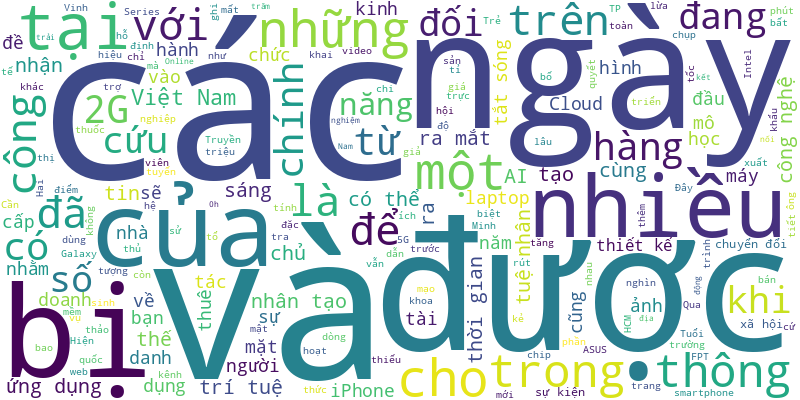
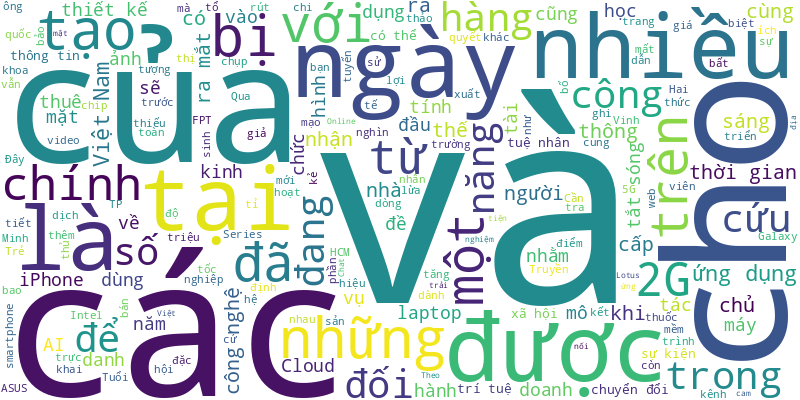
🍀 = 90%

diff --git a/README.md b/README.md
@@ -1,6 +1,14 @@
 # Tuoi Tre RSS 
 
 ## Giáo dục 
+- Giáo viên nhận xét ra sao về đề tham khảo thi tốt nghiệp THPT từ năm 2025?
+- Theo đề xuất của Bộ Giáo dục và Đào tạo, sinh viên hệ vừa học vừa làm, hệ đào tạo từ xa sẽ được cấp học bổng như sinh viên chính quy.
+- Bộ Giáo dục và Đào tạo vừa công bố đề thi tham khảo kỳ thi tốt nghiệp THPT năm 2025 của 10 môn văn hóa và 7 môn ngoại ngữ.
+- Nhận được bức thư của nữ sinh lớp 7 ở Hà Tĩnh xin hỗ trợ cho bạn học cùng lớp, ông Hoàng Trọng Thủy vô cùng xúc động nên đã đăng tải lên mạng xã hội. Ngay sau đó có một số người liên hệ với ông Thủy đề nghị giúp đỡ.
+- Trường tiểu học Tân Sơn Nhì (quận Tân Phú, TP.HCM) mời phụ huynh tham gia tiết học mở, bữa ăn bán trú cùng học sinh.
+- Tháng 10 hằng năm, sau khi những người đoạt giải Nobel được công bố, thế giới lại được chiêm ngưỡng những bức chân dung mang tính biểu tượng.
+- Các trường đại học đang lúng túng trong việc công bố chi tiết cách xét tuyển theo điểm thi tốt nghiệp THPT 2025.
+- Bộ Giáo dục và Đào tạo cho biết sẽ tổ chức tổng kết, rút kinh nghiệm quá trình xã hội hóa việc biên soạn, phát hành, in ấn và hiệu quả sử dụng sách giáo khoa.
 - Bước vào cuối cấp, thông qua những chuyến đi thực tế học sinh dễ hình dung, nhóm lên dự định về công việc mong muốn để sớm phát triển bản thân.
 - Những quốc gia như Lào, Myanmar đang có nhiều dự án lớn tầm quốc gia ứng dụng trí tuệ nhân tạo (AI) trong giáo dục.
 - Phụ huynh có thể tra cứu thời hạn sử dụng thẻ bảo hiểm y tế bằng nhiều cách, hoặc đăng ký tài khoản VssID cho con qua tài khoản của cha mẹ để tra cứu.
@@ -23,48 +31,41 @@
 - Võ Quang Phú Đức - quán quân Đường lên đỉnh Olympia 2024 - đã có những trải lòng sau khi giành được vòng nguyệt quế và chuyện bấm chuông ở câu trả lời cuối cùng đang ồn ào trên mạng xã hội.
 - Bộ trưởng Bộ Giáo dục và Đào tạo Nguyễn Kim Sơn đã trả lời kiến nghị cử tri tỉnh An Giang gửi kỳ họp thứ 7, Quốc hội khóa XV liên quan sách giáo khoa, học phí.
 - Dự thảo Luật Nhà giáo mới nhất đã bỏ nội dung quy định về chứng chỉ hành nghề nhà giáo nhưng quan điểm của ban soạn thảo việc này sẽ vẫn tiến hành nghiên cứu, thí điểm.
-- Tiến sĩ Randall Martin - giám đốc điều hành, Hội đồng giáo dục quốc tế British Columbia (Canada) - cho biết đang ghi nhận một sự chuyển biến đáng kể trong việc lựa chọn ngành học của các sinh viên Việt Nam đến Canada.
-- Trường đại học Thủ Dầu Một đã nộp lại ngân sách 37 tỉ đồng thu sai học phí mà không hoàn trả sinh viên.
-- Theo Bộ Giáo dục và Đào tạo, việc tổ chức kỳ thi tốt nghiệp THPT để xét công nhận tốt nghiệp THPT đã được quy định trong Luật Giáo dục.
-- Huỳnh Ngọc Hiếu (19 tuổi) vừa giành học bổng toàn phần của Trường ĐH RMIT. Đáng nể hơn, Hiếu cũng đang là sinh viên của ĐH Kinh tế TP.HCM và sẽ học hai trường cùng lúc.
-- Thống kê từ IELTS cho thấy điểm thi phổ biến nhất của thí sinh Việt Nam là 6.0, trong khi đó chỉ 1% thí sinh đạt trên điểm 8.5.
-- Tính đến tháng 9-2024, cả nước có 1.886 cơ sở giáo dục nghề nghiệp, bao gồm 399 trường cao đẳng, 429 trường trung cấp và 1.058 trung tâm giáo dục nghề nghiệp.
-- GS.TS Nguyễn Hữu Tú, hiệu trưởng Trường đại học Y Hà Nội, vừa được Chính phủ Pháp trao tặng huân chương Cành cọ hàn lâm vì những đóng góp trong sự phát triển hợp tác y khoa giữa hai nước.
-- Công an tỉnh Nam Định đang phối hợp cùng các đơn vị liên quan điều tra nguyên nhân bé gái 2 tuổi tử vong tại Trường mầm non xã Nam Điền, huyện Nghĩa Hưng.
 ![Edu](Edu.png)
 ## Thời Sự 
-- Ban Thường vụ Tỉnh ủy Lai Châu thi hành kỷ luật cảnh cáo đối với 17 lãnh đạo, nguyên lãnh đạo, cán bộ đang công tác tại nhiều cơ quan đơn vị.
-- Xe đầu kéo kéo theo rơ moóc chở thùng container bất ngờ lật ngang tại vòng xoay công trường Cộng Hòa, phường 2, quận 3, TP.HCM.
-- Sáng 18-10, triều cường tại TP.HCM dâng cao, một số nơi tại quận 7 ngập chưa kịp rút do mưa chiều qua thì hứng thêm đợt triều đầu sáng nay.
-- Nhiều năm qua, Bộ Tài chính và nhiều cơ quan nhắc đi nhắc lại việc nỗ lực cắt thủ tục, tăng bồi thường, tạo thuận lợi cho người thực hiện bảo hiểm xe máy. Bộ cũng nói thanh tra, kiểm tra nhưng...
-- Được hẹn trả kết quả từ tháng 12-2023 nhưng đến nay vẫn chưa có sổ hồng, hộ gia đình ông Bùi Mộc ở Tân Bình, TP.HCM có thể phải đóng thêm hơn 40 tỉ đồng vì giá đất dự kiến tăng đến 7 lần.
-- Ngày 17-10, Đại hội đại biểu toàn quốc Mặt trận Tổ quốc (MTTQ) Việt Nam lần thứ X, nhiệm kỳ 2024 - 2029 đã khai mạc.
-- Tin tức đáng chú ý: TP.HCM gặp khó khi người 'chăn dắt' trẻ em có khi là cha mẹ ruột của trẻ; Tổ chức chuỗi chương trình "Bác sĩ tư vấn" nâng cao nhận thức bệnh ung thư vú...
-- Hôm nay 18-10, thời tiết Nam Bộ tiếp tục mưa to, triều cường cũng đang lên nhanh. Bắc Bộ nắng gián đoạn, có lúc mưa rào.
-- Vụ cháy xe khách giường nằm vừa xảy ra trên cao tốc Phan Thiết - Dầu Giây trong đêm 17-10, đoạn ngay cầu Sông Phan, huyện Hàm Tân, tỉnh Bình Thuận.
-- Ban Tuyên giáo Trung ương tuyên dương 14 cá nhân, 12 tập thể, mô hình tiêu biểu, điển hình trong học tập và làm theo tư tưởng, đạo đức, phong cách Hồ Chí Minh đến từ các tỉnh, thành khu vực miền Trung - Tây Nguyên.
-- Việc người dân bị phạt nguội "oan" do xe khác dùng biển số giả còn nhiều bất cập, cần có nhiều cách để tránh phạt oan.
-- Trong cuộc hội đàm với Chủ tịch Quốc hội Trần Thanh Mẫn, Chủ tịch Quốc hội Lào đã nói về món quà vô giá của Việt Nam, và nhấn mạnh sự đoàn kết giữa hai nước.
-- 'Nhưng 10 năm qua, chúng ta đã làm được điều này', ông Phạm Phú Bình - ủy viên thường trực Ủy ban Đối ngoại - chia sẻ tại tọa đàm chiều 17-10 tại Hà Nội.
-- Chánh án Tòa án nhân dân tối cao Lê Minh Trí đã có báo cáo về công tác của các tòa án tại kỳ họp thứ 8 của Quốc hội. Số liệu trong báo cáo được thống kê từ ngày 1-10-2023 đến ngày 30-9-2024.
-- Tổng Thanh tra Chính phủ kiến nghị Bộ Tài nguyên và Môi trường trong quá trình thực hiện kết luận thanh tra rà soát, xem xét xử lý nghiêm cán bộ cố tình đùn đẩy trách nhiệm, có hành vi nhũng nhiễu tiêu cực gây phiền hà cho người dân, doanh nghiệp.
-- Ngày 17-10, các sở ngành của tỉnh Đồng Nai đã họp bàn đề nghị xếp hạng di tích cấp tỉnh đối với ngôi biệt thự trăm tuổi (nhà lầu ông Phủ) ở phường Bửu Long, thành phố Biên Hòa.
-- Đại diện Bộ Khoa học và Công nghệ vừa có những thông tin cập nhật liên quan đến việc Công ty cổ phần Y học Rạng Đông phải 'trùm mền' lò sản xuất thuốc phóng xạ 18F-FDG vì vướng cơ chế.
-- Theo dự báo của cơ quan khí tượng, ngày mai 18-10, thời tiết TP.HCM và các tỉnh Nam Bộ vừa có mưa to vừa gặp triều cường đỉnh, nguy cơ ngập nước rất cao.
-- Chiều 17-10, chuẩn bị cho kỳ họp thứ 8, Quốc hội khóa XV, Tổng Bí thư, Chủ tịch nước Tô Lâm cùng Đoàn đại biểu Quốc hội tỉnh Hưng Yên đã tiếp xúc cử tri tại huyện Văn Giang. Buổi tiếp xúc có sự tham dự của nhiều lãnh đạo trung ương và địa phương.
-- Năm trụ sở làm việc nằm sát chân núi chực chờ sạt lở, UBND huyện Sơn Tây, Quảng Ngãi cũng cách vị trí sạt lở tầm 70m. Dù trời không mưa nhưng nước cứ rỉ ra từ chân núi, tại sao huyện vẫn không làm kè chống sạt lở?
-- Ngày 17-10, hai chuyến bay của Vietjet từ TP.HCM đi Melbourne (Úc) và Seoul (Incheon, Hàn Quốc) dùng nhiên liệu hàng không bền vững (Sustainable Aviation Fuel - SAF) do Petrolimex Aviation tra nạp.
-- Công an đang điều tra nghi án sát hại bạn gái trong nhà nghỉ. Trong khi đó, trên mạng xã hội đang lan truyền các clip, hình ảnh màn cầu hôn tại một nhà hàng trước đó được cho là của cặp đôi trên.
-- Việt Nam quan tâm đến tình hình trên bán đảo Triều Tiên và mong muốn các bên kiềm chế, tính đến lợi ích của nhau cũng như lợi ích chung của khu vực và quốc tế.
-- Cầu đi bộ hình lá dừa nước bắc qua sông Sài Gòn do Nutifood tài trợ vừa được TP.HCM thống nhất bổ sung vào danh mục các dự án trọng điểm.
-- Thanh tra Sở Y tế Hà Nội xử phạt 25 triệu đồng với Công ty cổ phần Sản xuất kinh doanh nước sạch số 3 Hà Nội, vì không công khai các kết quả kiểm định chất lượng nước.
-- Trong dự án nghĩa trang cấp vùng theo mô hình công viên sinh thái ở Nghệ An có lò hỏa táng được vận hành cam kết 5 không: không khói, không mùi, không nước thải, không bụi và không có tiếng ồn.
-- Trồng thủy canh rau cải ngọt và đặc biệt là rau càng cua, rau sam (rau rừng), anh Trần Thanh Vũ - ở xã Dương Tơ (TP Phú Quốc, Kiên Giang) - thu về lợi nhuận hấp dẫn gần 500 triệu đồng/năm.
-- Được ví như 'lá phổi xanh' giữa lòng TP Đà Nẵng, công viên 29-3 được đầu tư hơn 673 tỉ đồng để nâng cấp, cải tạo trong năm 2024. Tuy nhiên, dự án này phải dời thời hạn khởi công sang năm 2025.
-- Bộ Ngoại giao Việt Nam cho biết các lực lượng chức năng Nhật Bản đang nỗ lực tìm kiếm những người còn mất tích, trong vụ 4 người Việt bị sóng cuốn trôi khi đi câu cá ở tỉnh Ibaraki.
-- 6 công nhân khiêng tấm đan để lát vào dầm cầu trên cao tốc, khi bước lên tấm đan đã lót sẵn thì đan bị gãy, khiến hai công nhân rơi xuống đất.
+- Để góp thêm tiếng nói, tìm kiếm giải pháp phát triển thị trường dược phẩm trong nước bằng công cụ chuyển đổi số, báo Tuổi Trẻ phối hợp với các đơn vị tổ chức Hội thảo Phát triển thị trường dược phẩm trong nước - Giải pháp từ chuyển đổi số.
+- TP.HCM và nhiều tỉnh thành phía Nam đang trong đợt triều cường cao nhất năm, lặp lại mốc lịch sử 1,8m của tháng 9-2019.
+- Sáng 18-10, phiên đấu giá điểm mỏ cát ĐB2B ở xã Điện Thọ (Điện Bàn, Quảng Nam) bắt đầu và được kết thúc lúc… 4h08 tảng sáng 19-10.
+- Họp báo quý 3 UBND tỉnh Quảng Ngãi trở nên nóng khi rất nhiều câu hỏi phóng viên đặt ra liên quan đến 64 trụ điện cao thế xây dựng trái phép để nhà máy thủy điện Sơn Trà 1A, Sơn Trà 1B và Sơn Trà 1C bán điện.
+- Ông Trần Hoàng Tuấn, phó chủ tịch UBND tỉnh Quảng Ngãi, cho biết sẽ xem xét chứng từ liên quan đến việc Tập đoàn FLC "đòi" 80,5 tỉ đồng, nếu có cơ sở sẽ hoàn trả.
+- Một số tin tức đáng chú ý: Tỉ giá nổi sóng, Ngân hàng Nhà nước quay lại 'hút tiền'; Loạt cổ phiếu 'hot' một thời sắp rời sàn hoặc hạn chế giao dịch; Độc đáo lễ hội mùa vàng Bắc Sơn; Ẩm thực truyền thống vùng đất cố đô Hoa Lư...
+- Hôm nay 19-10, thời tiết Nam Bộ vẫn duy trì mưa to vào chiều tối đến đêm; Bắc Bộ mưa rào và có sương mù nhẹ buổi sáng.
+- Thủ tướng Chính phủ Phạm Minh Chính ký các quyết định thi hành kỷ luật 2 nguyên chủ tịch UBND tỉnh Lâm Đồng.
+- Quán karaoke ở mặt tiền đường Đồng Khởi (TP Biên Hòa, Đồng Nai) đang tạm ngưng hoạt động để sửa chữa, bất ngờ bốc cháy dữ dội.
+- Bộ Giao thông vận tải lấy ý kiến của UBND TP.HCM, tỉnh Long An và Tiền Giang về dự án mở rộng đường cao tốc TP.HCM - Trung Lương - Mỹ Thuận lên 6-8 làn xe.
+- Vụ cháy chung cư mini trong đêm khiến nhiều người bị mắc kẹt, và cảnh sát đã đưa xe thang tới giải cứu.
+- Liên quan vụ nổ ở phường Tam Bình, TP Thủ Đức, bước đầu lực lượng chức năng nhận thấy nguyên nhân có khả năng do rò rỉ khí ở hầm biogas.
+- Trong báo cáo, tỉnh Quảng Nam cho biết hiện có 10 ổ dịch bệnh dại bùng phát, 667 người bị chó, mèo có biểu hiện bệnh dại cắn và một người tử vong. Số ca phải tới cơ sở y tế điều trị cũng tăng gấp đôi.
+- Liên quan đến việc các hãng tàu quốc tế đã hủy chuyến đưa du khách đến TP Nha Trang, Sở Du lịch Khánh Hòa vừa có kiến nghị khẩn.
+- Các ông Hoàng Văn Chương và Nguyễn Hoàng Hải được bổ nhiệm giữ chức trợ lý ủy viên Bộ Chính trị, Chủ tịch Quốc hội Trần Thanh Mẫn.
+- Thanh tra Chính phủ cho rằng chi phí người dân bỏ ra để xét nghiệm nồng độ cồn khi khám sức khỏe cấp bằng lái xe là khoảng 350 tỉ đồng và đề nghị bỏ quy định này.
+- Sở Tài nguyên và Môi trường TP.HCM vừa có tờ trình UBND TP.HCM về ban hành đề án cải thiện nhà vệ sinh công cộng trên địa bàn TP.HCM giai đoạn 2024-2025.
+- Giải thưởng Thành tựu y khoa Việt Nam nhận được 68 sản phẩm đăng ký tham gia đến từ TP.HCM và 2 tỉnh thành Đắk Nông và Cần Thơ.
+- Chiều 18-10, lãnh đạo tỉnh Ninh Thuận đã đến Đồng Nai mời gọi các doanh nghiệp xúc tiến đầu tư vào các công trình trọng điểm và một số lĩnh vực.
+- Dự báo khoảng từ ngày 23 đến 25-10, trên Biển Đông khả năng có một cơn bão hoặc áp thấp nhiệt đới hoạt động.
+- Ủy ban Kiểm tra Quân ủy Trung ương nhiệm kỳ 2020-2025 tổ chức kỳ họp thứ 20 và đã xem xét, cho ý kiến đề nghị xử lý kỷ luật với 12 quân nhân vi phạm.
+- Thủ tướng Phạm Minh Chính sẽ dự Hội nghị các nhà lãnh đạo nhóm BRICS mở rộng từ ngày 23-10, đánh dấu lần đầu tiên Việt Nam tham gia ở cấp người đứng đầu Chính phủ.
+- Triều cường dâng cao và đạt đỉnh, trên tuyến đường Trần Xuân Soạn, quận 7, TP.HCM ngập nặng gây khó khăn cho người dân qua lại.
+- Giám đốc Sở Y tế Phú Thọ Nguyễn Huy Ngọc (54 tuổi) được bầu làm phó chủ tịch UBND tỉnh Phú Thọ khóa XIX, nhiệm kỳ 2021-2026.
+- Thủ tướng Phạm Minh Chính vừa ký quyết định số 1211 phân công trưởng Ban Chỉ đạo phòng, chống rửa tiền.
+- Ông Mai Sơn, phó chủ tịch thường trực UBND tỉnh Bắc Giang, được giao quyền chủ tịch đến khi kiện toàn chức vụ chủ tịch UBND tỉnh Bắc Giang nhiệm kỳ 2021 - 2026.
+- Hàng loạt phòng khám nha khoa tại TP.HCM vừa bị Thanh tra Sở Y tế TP xử phạt vì quảng cáo trái phép, không niêm yết giá dịch vụ, tuyển nhân viên không có giấy phép hành nghề...
+- TP.HCM lấy ý kiến về việc lập thêm 3 ban quản lý dự án, để đảm đương khối lượng công việc và nhiều dự án lớn trong thời gian tới.
+- Ngày 18-10, Chủ tịch Quốc hội Trần Thanh Mẫn đã có cuộc hội kiến Tổng Bí thư, Chủ tịch nước Lào Thongloun Sisoulith.
+- Gần 200 hình ảnh, tư liệu, hiện vật có giá trị lịch sử được trưng bày nhằm giới thiệu khái quát về quê hương Hà Tĩnh và gia đình, quá trình hoạt động cách mạng của anh Lý Tự Trọng - người đoàn viên thanh niên cộng sản đầu tiên.
 ![New](News.png)
 ## Nhịp sống số 
+- Theo cam kết của nhà cung cấp dịch vụ, Lotus Chat là ứng dụng dành cho người dùng Việt có tính bảo mật và tiện lợi.
 - Qua nhiều ngày trải nghiệm kết nối 5G tại nhiều địa điểm, thời gian khác nhau tại TP.HCM, Tuổi Trẻ Online đã có những ghi nhận khác nhau về tốc độ 5G.
 - Từ 0h ngày 16-10, Việt Nam sẽ chính thức tắt sóng 2G. Hiện vẫn còn hàng trăm nghìn thuê bao 2G Only đang hoạt động.
 - Camera iPhone 16 Pro bị chê chụp ảnh thiếu sáng và video bị mất chi tiết khi zoom, Galaxy S24 Ultra bị điểm trừ vì độ trễ khi chụp ảnh và video không ổn định.
@@ -94,5 +95,4 @@
 - Đây là một trong những nhiệm vụ mà Thủ tướng Phạm Minh Chính đề ra trong việc nâng cao hiệu quả cung cấp và sử dụng dịch vụ công trực tuyến.
 - Apple chính thức thông báo sẽ tổ chức sự kiện ra mắt iPhone 16, một trong những sự kiện công nghệ được mong đợi nhất hành tinh, vào ngày 9-9.
 - Nhiều nghiên cứu cho thấy trẻ dùng smartphone đối mặt nhiều nguy cơ, đặc biệt là chức năng thần kinh bị ảnh hưởng, bị 'đầu độc' và bắt nạt trực tuyến...
-- Bạn có tin được không: khoảng 61% mật khẩu hiện nay có thể bị bẻ khóa trong chưa đầy một phút dưới sự hỗ trợ của trí tuệ nhân tạo (AI), trong khi chỉ có 7% mật khẩu đủ mạnh để phòng chống các cuộc tấn công lâu dài.
 ![life](Life.png)
